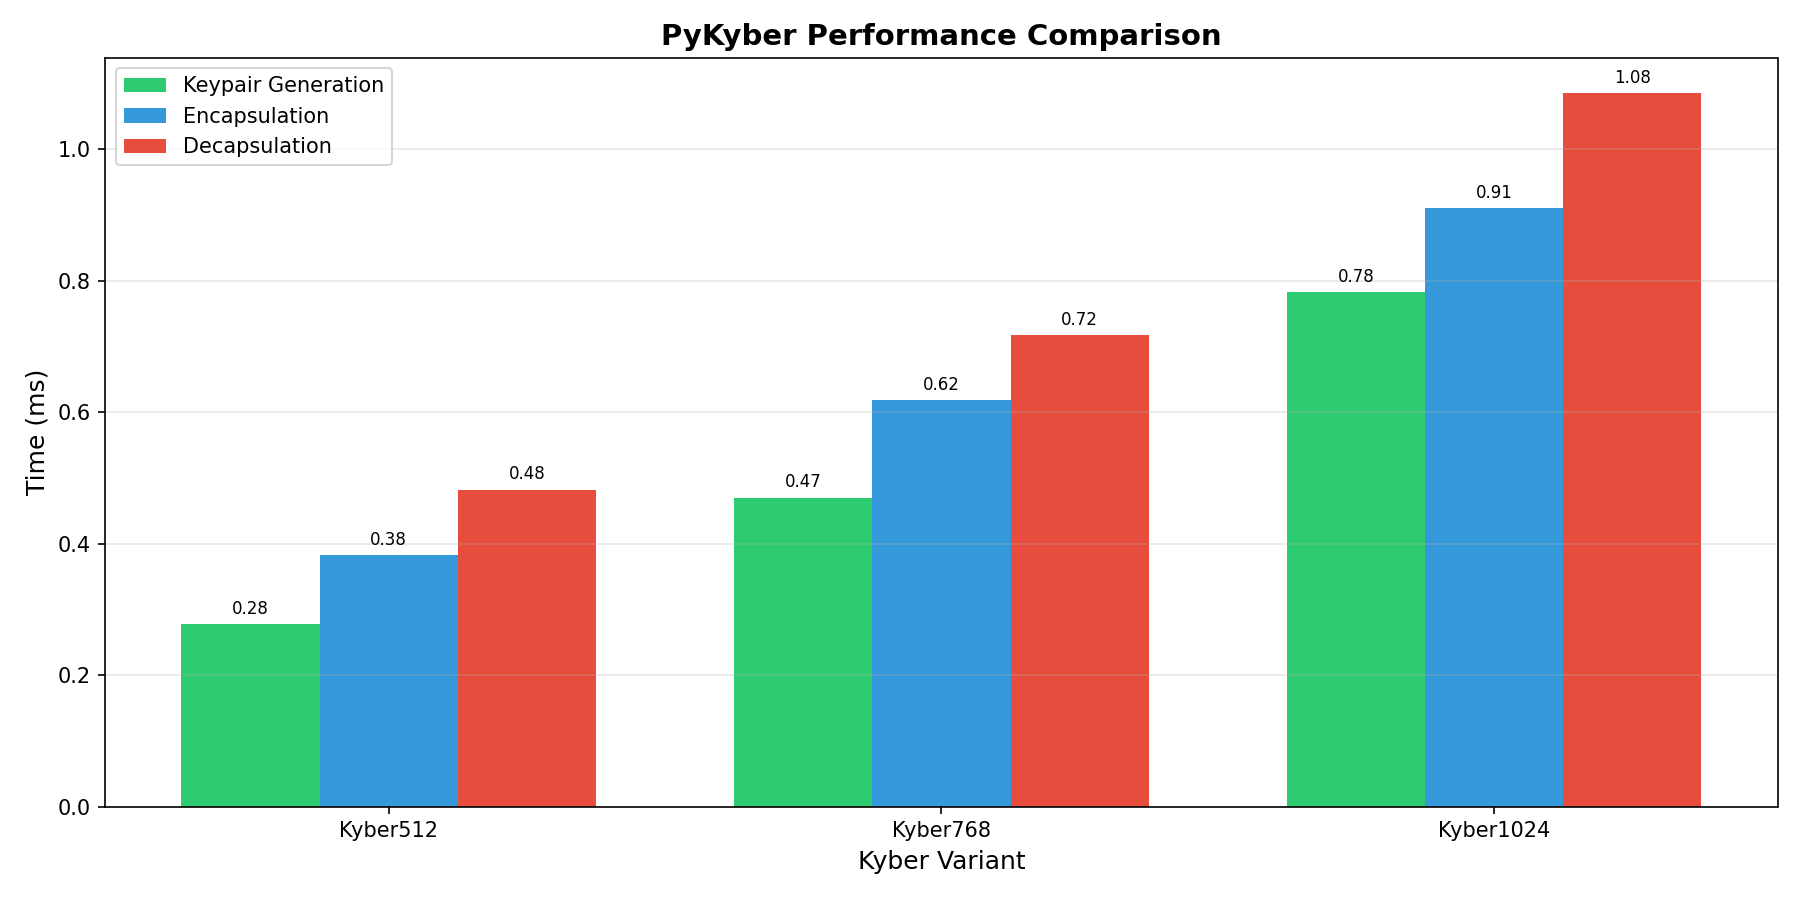
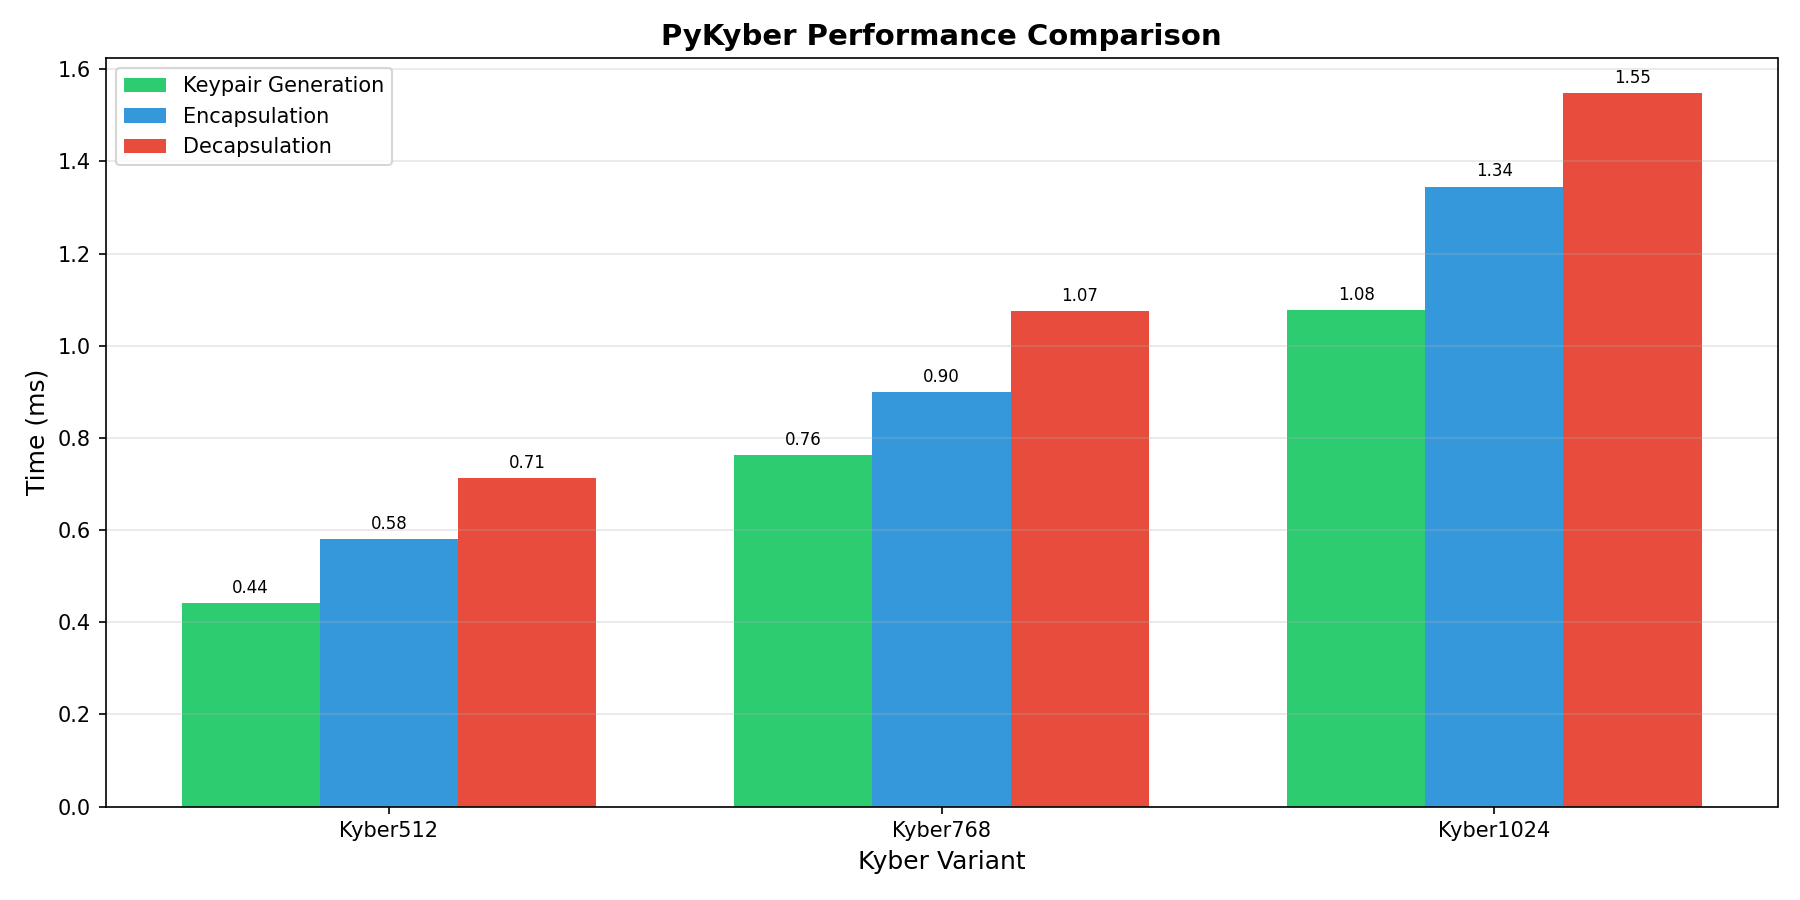
feat: implement comprehensive security hardening and compliance fixes
This commit introduces significant security and cryptographic robustness improvements to the pykyber library:

- Mitigated timing side-channel attacks by replacing value-dependent division operators with constant-time modular arithmetic in polynomial compression and message extraction functions.
- Integrated the zeroize crate to ensure that sensitive cryptographic material, including secret keys and intermediate state buffers, is explicitly wiped from memory when dropped.
- Achieved full NIST FIPS 203 compliance for Kyber-1024 by correcting the compression parameters (du=11, dv=5) and bit-packing logic, resulting in a standard-compliant 1568-byte ciphertext.
- Hardened the Kyber-512 implementation by updating the noise parameter eta1 to 3 and utilizing the correct CBD3 noise distribution as specified in the standard.
- Improved arithmetic robustness in the NTT implementation by using 32-bit intermediate types to prevent potential overflows and refactored Keccak squeezing to ensure memory safety for arbitrary output lengths.
- Added a full suite of verification tests and updated benchmarks to reflect the new security-first architecture.

diff --git a/python/tests/test_features.py b/python/tests/test_features.py
@@ -74,3 +74,71 @@ def test_from_keys():
     ss1 = k768.decapsulate(res.ciphertext)
     ss2 = k768_new.decapsulate(res.ciphertext)
     assert ss1 == ss2
+
+
+def test_kyber1024_fips203_parameters():
+    """Verify that Kyber-1024 uses FIPS-203 (NIST) compliant sizes."""
+    # FIPS 203 specifies du=11, dv=5 for ML-KEM-1024
+    # Ciphertext size = k*32*du + 32*dv = 4*32*11 + 32*5 = 1408 + 160 = 1568 bytes
+    k1024 = pykyber.Kyber1024()
+    result = k1024.encapsulate()
+    assert len(result.ciphertext) == 1568
+    assert len(k1024.public_key) == 1568  # 4*384 + 32 = 1536 + 32 = 1568
+    
+    # Verify that we can successfully decapsulate with these sizes
+    ss = k1024.decapsulate(result.ciphertext)
+    assert len(ss) == 32
+
+
+def test_deterministic_domain_separation():
+    """Test that the same seed produces different keys for different variants."""
+    seed = bytes(range(64))
+    
+    k512 = pykyber.Kyber512(seed=seed)
+    k768 = pykyber.Kyber768(seed=seed)
+    k1024 = pykyber.Kyber1024(seed=seed)
+    
+    # Public keys should all be different
+    pks = [k512.public_key, k768.public_key, k1024.public_key]
+    assert len(set(pks)) == 3
+    
+    # Secret keys should all be different
+    sks = [k512.secret_key, k768.secret_key, k1024.secret_key]
+    assert len(set(sks)) == 3
+
+
+def test_keypair_unpacking():
+    """Test tuple unpacking of Keypair."""
+    pk, sk = pykyber.Kyber768()
+    assert isinstance(pk, bytes)
+    assert isinstance(sk, bytes)
+    assert len(pk) == 1184
+    assert len(sk) == 2400
+
+
+def test_encapsulation_result_unpacking():
+    """Test tuple unpacking of EncapsulationResult."""
+    keypair = pykyber.Kyber768()
+    ct, ss = keypair.encapsulate()
+    assert isinstance(ct, bytes)
+    assert isinstance(ss, bytes)
+    assert len(ct) == 1088
+    assert len(ss) == 32
+
+
+def test_encapsulation_result_hex_b64():
+    """Test hex and base64 properties of EncapsulationResult."""
+    keypair = pykyber.Kyber768()
+    res = keypair.encapsulate()
+    
+    assert res.ciphertext_hex == res.ciphertext.hex()
+    assert res.shared_secret_hex == res.shared_secret.hex()
+    
+    # Simple check for base64 (should be longer than hex)
+    assert len(res.ciphertext_b64) > len(res.ciphertext_hex) / 2
+    assert len(res.shared_secret_b64) == 44 # 32 bytes -> 44 chars in b64
+    
+    # Test to_dict
+    d = res.to_dict()
+    assert d["ciphertext"] == res.ciphertext_hex
+    assert d["shared_secret"] == res.shared_secret_hex

diff --git a/src/kyber/ntt.rs b/src/kyber/ntt.rs
@@ -36,8 +36,8 @@ pub fn ntt_forward(coeffs: &mut [i16]) {
             j = start;
             while j < (start + layer_length) {
                 temp = field_multiply(zeta, coeffs[j + layer_length]);
-                coeffs[j + layer_length] = coeffs[j] - temp;
-                coeffs[j] += temp;
+                coeffs[j + layer_length] = (coeffs[j] as i32 - temp as i32) as i16;
+                coeffs[j] = (coeffs[j] as i32 + temp as i32) as i16;
                 j += 1;
             }
             start = j + layer_length;
@@ -48,7 +48,7 @@ pub fn ntt_forward(coeffs: &mut [i16]) {
 
 /// Inverse Number Theuristic Transform (INTT) on a polynomial.
 /// Transforms coefficients from NTT domain back to standard representation.
-/// Uses inverse butterflies withBarrett reduction and final scaling factor.
+/// Uses inverse butterflies with Barrett reduction and final scaling factor.
 pub fn ntt_inverse(coeffs: &mut [i16]) {
     let mut j;
     let mut zeta_index = 127usize;
@@ -63,8 +63,8 @@ pub fn ntt_inverse(coeffs: &mut [i16]) {
             j = start;
             while j < (start + layer_length) {
                 temp = coeffs[j];
-                coeffs[j] = barrett_reduce(temp + coeffs[j + layer_length]);
-                coeffs[j + layer_length] = coeffs[j + layer_length] - temp;
+                coeffs[j] = barrett_reduce(temp as i32 + coeffs[j + layer_length] as i32);
+                coeffs[j + layer_length] = (coeffs[j + layer_length] as i32 - temp as i32) as i16;
                 coeffs[j + layer_length] = field_multiply(zeta, coeffs[j + layer_length]);
                 j += 1
             }

diff --git a/src/kyber/fips202.rs b/src/kyber/fips202.rs
@@ -405,14 +405,19 @@ fn keccak_squeeze(
             pos = 0
         }
         let mut i = pos;
-        let mut w = i / 8;
-        while i < r && i < pos + outlen {
-            store_u64(&mut out[idx..], s[w]);
-            i += 8;
-            w += 1;
-            idx += 8;
+        while i < r && outlen > 0 {
+            if outlen >= 8 && i % 8 == 0 && i + 8 <= r {
+                store_u64(&mut out[idx..], s[i / 8]);
+                idx += 8;
+                outlen -= 8;
+                i += 8;
+            } else {
+                out[idx] = (s[i / 8] >> (8 * (i % 8))) as u8;
+                idx += 1;
+                outlen -= 1;
+                i += 1;
+            }
         }
-        outlen -= i - pos;
         pos = i;
     }
     pos

diff --git a/src/kyber/reduce.rs b/src/kyber/reduce.rs
@@ -11,10 +11,10 @@ pub fn montgomery_reduce(a: i32) -> i16 {
     t as i16
 }
 
-pub fn barrett_reduce(a: i16) -> i16 {
+pub fn barrett_reduce(a: i32) -> i16 {
     let v = ((1u32 << 26) / KYBER_Q as u32 + 1) as i32;
-    let mut t = v * a as i32 + (1 << 25);
+    let mut t = v * a + (1 << 25);
     t >>= 26;
     t *= KYBER_Q as i32;
-    a - t as i16
+    (a - t) as i16
 }

diff --git a/src/kyber/poly.rs b/src/kyber/poly.rs
@@ -185,7 +185,7 @@ pub fn poly_tomont(r: &mut Poly) {
 
 pub fn poly_reduce(r: &mut Poly) {
     for i in 0..KYBER_N {
-        r.coeffs[i] = barrett_reduce(r.coeffs[i]);
+        r.coeffs[i] = barrett_reduce(r.coeffs[i] as i32);
     }
 }
 

diff --git a/README.md b/README.md
@@ -85,7 +85,7 @@ keypair = pykyber.Kyber768.from_keys(public_key, secret_key)
 |-----------|------------|------------|------------|---------------|
 | Kyber-512 | 800 bytes  | 1632 bytes | 768 bytes  | 32 bytes      |
 | Kyber-768 | 1184 bytes | 2400 bytes | 1088 bytes | 32 bytes      |
-| Kyber-1024| 1568 bytes | 3168 bytes | 1408 bytes | 32 bytes      |
+| Kyber-1024| 1568 bytes | 3168 bytes | 1568 bytes | 32 bytes      |
 
 
 ## Error Handling
@@ -116,9 +116,9 @@ Performance benchmarks (100 iterations each):
 
 | Variant | Keypair | Encapsulate | Decapsulate |
 |---------|---------|-------------|-------------|
-| Kyber512 | 0.27 ms (3,667/s) | 0.39 ms (2,548/s) | 0.48 ms (2,101/s) |
-| Kyber768 | 0.48 ms (2,069/s) | 0.62 ms (1,605/s) | 0.78 ms (1,279/s) |
-| Kyber1024 | 0.78 ms (1,289/s) | 0.94 ms (1,064/s) | 1.04 ms (959/s) |
+| Kyber512 | 0.44 ms (2,262/s) | 0.58 ms (1,721/s) | 0.71 ms (1,404/s) |
+| Kyber768 | 0.76 ms (1,312/s) | 0.90 ms (1,111/s) | 1.08 ms (930/s) |
+| Kyber1024 | 1.08 ms (928/s) | 1.35 ms (743/s) | 1.55 ms (645/s) |
 
 Run benchmarks and generate graphs:
 
